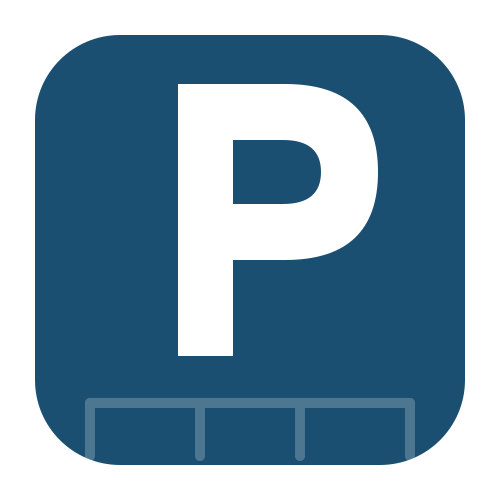
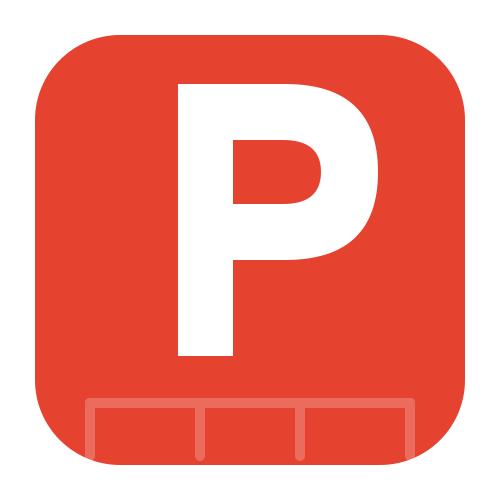
앱 색을 #e64230 으로 바꾼다
사진 속 아이파킹 설비와 같은 빨강. 기기 이미지의 판도 같이 바꿔서
스토어 페이지와 기기 카드가 한 색을 쓰게 한다.

설정 화면의 --brand 는 여덟 버전 동안 매니페스트와 달랐다 — 이 페이지는
#0b6fd4, app.json 은 남색. 두 화면이 같이 보이는 자리가 없어서 아무도
눈치채지 못했다. 이번에 같은 값으로 맞춘다.

브랜드가 빨강이 되면 위험 버튼과 구분이 사라진다. 빨간 [등록] 옆의 빨간
[취소] 는 사용자가 절대 헷갈려서는 안 되는 조합이다 — 취소는 실제 단지의
살아 있는 출입 권한을 회수한다. 그래서 위험 버튼은 다른 빨강이 아니라
테두리만 있는 모양으로 간다. 채워진 것은 하러 온 일, 테두리는 무언가를
없애는 일.

두 번 누르기의 두 번째 단계에 .armed 를 붙여 채워지게 한다. 지금까지
글자만 바뀌었는데, 실제 권한을 회수하기 직전 상태라면 그 정도는 눈에
보여야 한다.

0.3.2 는 아직 업로드된 적이 없으므로 버전을 새로 올리지 않고 changelog 에
색과 버튼 변경을 더한다.

diff --git a/settings/index.html b/settings/index.html
@@ -7,7 +7,10 @@
   <script src="/homey.js" data-origin="settings"></script>
   <script src="form.js"></script>
   <style>
-    :root { --brand:#0b6fd4; --bg:#f2f2f5; --card:#fff; --text:#1b1b1f; --muted:#66666e;
+    /* --brand is the manifest's brandColor. They were different for eight versions — this
+       page said #0b6fd4 while app.json said a navy — which nobody noticed because the two
+       surfaces are never on screen together. Keep them equal. */
+    :root { --brand:#e64230; --bg:#f2f2f5; --card:#fff; --text:#1b1b1f; --muted:#66666e;
             --border:#e2e2e8; --ok:#1e8449; --warn:#b9770e; --err:#c0392b; }
     * { box-sizing: border-box; }
     html, body { background: var(--bg) !important; }
@@ -27,7 +30,14 @@
     .buttons button { flex:1 1 0; min-width:0; margin:0; padding:10px 6px; font-size:13px;
                       line-height:1.25; text-align:center; white-space:normal; word-break:keep-all; }
     button.ghost { background:#eeeef2; color:var(--text); }
-    button.danger { background:#c0392b; color:#fff; }
+    /* Destructive buttons are OUTLINED, not another shade of the brand.
+       The brand is red now, and a red 취소 beside a red 등록 is exactly the pair a user must
+       never confuse — 취소 withdraws a live access grant at a real building. Filled = the
+       action you came here to do; outlined = the one that takes something away.
+       `.armed` is the second half of the two-press cancel: once armed it goes solid, so the
+       state change is visible and not only a word swap. */
+    button.danger { background:#fff; color:#a3271a; box-shadow:inset 0 0 0 1.5px #e8b3ab; }
+    button.danger.armed { background:#a3271a; color:#fff; box-shadow:none; }
     button.tiny { padding:5px 10px; font-size:12px; }
     button[disabled] { opacity:.55; cursor:default; }
     .hint { font-size:12px; color:var(--muted); margin:4px 0 0; }
@@ -369,6 +379,7 @@
           button.addEventListener("click", function () {
             if (!armed) {
               armed = true;
+              button.classList.add("armed");
               button.textContent = t("cancelArm");
               button.title = t("cancelConfirm");
               // Disarm if they walk away from it, so a stale armed button cannot be triggered
@@ -376,6 +387,7 @@
               window.setTimeout(function () {
                 if (!armed) return;
                 armed = false;
+                button.classList.remove("armed");
                 button.textContent = t("cancelBtn");
                 button.removeAttribute("title");
               }, 5000);

diff --git a/drivers/visitcar/pair/start.html b/drivers/visitcar/pair/start.html
@@ -5,10 +5,10 @@
     font-family:-apple-system, BlinkMacSystemFont, "Segoe UI", Roboto, sans-serif; color:#1b1b1f; }
   #ip-start .card { background:#fff; border:1px solid #e2e2e8; border-radius:10px; padding:24px 16px; }
   #ip-start p { margin:0 0 14px; color:#66666e; }
-  #ip-start button { padding:10px 18px; border:0; border-radius:6px; background:#1B4F72; color:#fff;
+  #ip-start button { padding:10px 18px; border:0; border-radius:6px; background:#e64230; color:#fff;
     font-size:15px; cursor:pointer; }
   #ip-start .spinner { display:inline-block; width:18px; height:18px; border:3px solid #d9d9e0;
-    border-top-color:#1B4F72; border-radius:50%; animation:ipspin .8s linear infinite; }
+    border-top-color:#e64230; border-radius:50%; animation:ipspin .8s linear infinite; }
   @keyframes ipspin { to { transform:rotate(360deg); } }
 </style>
 

diff --git a/drivers/visitcar/repair/reconnect.html b/drivers/visitcar/repair/reconnect.html
@@ -6,7 +6,7 @@
   #ip-repair p { margin:0 0 10px; color:#66666e; }
   #ip-repair label { display:block; font-weight:600; margin:12px 0 4px; font-size:13px; }
   #ip-repair input { width:100%; padding:9px; font-size:15px; border:1px solid #e2e2e8; border-radius:6px; }
-  #ip-repair button { margin-top:16px; padding:10px 18px; border:0; border-radius:6px; background:#1B4F72;
+  #ip-repair button { margin-top:16px; padding:10px 18px; border:0; border-radius:6px; background:#e64230;
     color:#fff; font-size:15px; cursor:pointer; }
   #ip-repair button[disabled] { opacity:.55; cursor:default; }
   #ip-repair .msg { margin-top:13px; font-size:13px; white-space:pre-wrap; }
